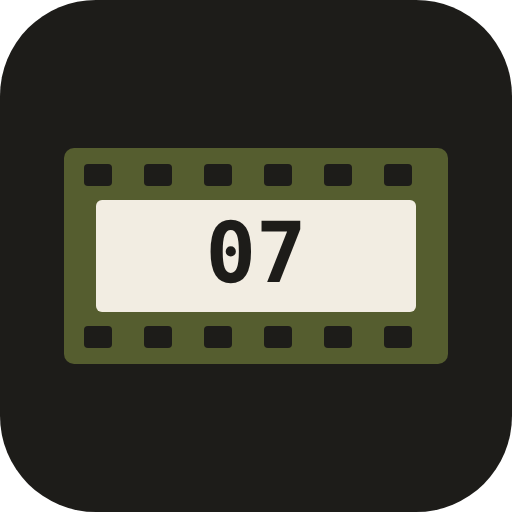
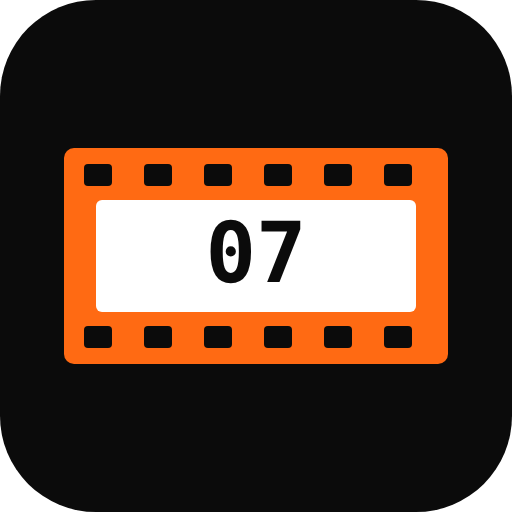
Black, orange and white colour scheme
White page with black ink and safety-orange actions; a near-black dark mode.
Double exposures move from amber to black with an orange hazard stripe so they
stay distinct from the orange primary action. App icon, theme colour and
manifest updated to match.

Claude-Session: https://claude.ai/code/session_01EzKTXiBk6ZMpbCq3yHwj5h

Changed region(s): [[0.125, 0.2812, 0.875, 0.7188]]

diff --git a/app.css b/app.css
@@ -1,38 +1,39 @@
-/* Layout: a single centred column like a pocket notebook page; logger pinned above a three-tab bar. */
+/* Layout: a single centred column like a pocket notebook page; logger pinned above a three-tab bar.
+   Palette: white page, black ink, safety orange for actions. Multiple exposures use black + hazard stripe. */
 :root {
-  --paper: #f2ede2;      /* cream page */
-  --sheet: #fbf8f1;      /* raised paper: inputs, cards */
-  --tile: #e8e1d2;       /* unselected controls */
-  --ink: #1d1c19;        /* charcoal */
-  --ink-2: #57544b;      /* secondary text */
-  --ink-3: #8a8577;      /* hints */
-  --line: #d3cab7;
-  --olive: #555d2f;      /* primary / selected */
-  --olive-ink: #fbf8f1;
-  --olive-soft: #dfe0c6;
-  --amber: #9a531a;      /* multiple exposure: deliberately not olive */
-  --amber-soft: #f1dcc3;
-  --danger: #9b2f22;
+  --paper: #ffffff;      /* page */
+  --sheet: #f6f6f5;      /* raised: inputs, cards */
+  --tile: #ececea;       /* unselected controls */
+  --ink: #0b0b0b;        /* black */
+  --ink-2: #4a4a4a;      /* secondary text */
+  --ink-3: #858585;      /* hints */
+  --line: #dadad8;
+  --accent: #ff6a13;     /* orange fill: primary / selected */
+  --accent-ink: #0b0b0b; /* text on orange */
+  --accent-text: #c2410c;/* orange used as text on the page (passes contrast on white) */
+  --accent-soft: #ffe7d6;
+  --mx-stripe: repeating-linear-gradient(-45deg, var(--accent) 0 7px, var(--ink) 7px 14px);
+  --danger: #c81e1e;
   --font-display: "Newsreader", "Iowan Old Style", "Palatino Linotype", Georgia, serif;
   --font-ui: "IBM Plex Sans", "Helvetica Neue", Arial, system-ui, sans-serif;
   --font-mono: "IBM Plex Mono", ui-monospace, "SF Mono", Menlo, Consolas, monospace;
   --nav-h: 64px;
   --radius: 10px;
   --col: 600px;
-  --grain-opacity: .07;
+  --grain-opacity: .045;
   color-scheme: light;
 }
 @media (prefers-color-scheme: dark) {
   :root:not([data-theme="light"]) {
-    --paper: #161512; --sheet: #201f1b; --tile: #2a2924; --ink: #efe9dc; --ink-2: #b1ab9c; --ink-3: #7f7a6d;
-    --line: #3b3933; --olive: #b0b97e; --olive-ink: #161512; --olive-soft: #2e3121; --amber: #e09a55;
-    --amber-soft: #3a2a1a; --danger: #e0806f; --grain-opacity: .05; color-scheme: dark;
+    --paper: #0b0b0b; --sheet: #171717; --tile: #232323; --ink: #f5f5f5; --ink-2: #b8b8b8; --ink-3: #7c7c7c;
+    --line: #2f2f2f; --accent: #ff7a1f; --accent-ink: #0b0b0b; --accent-text: #ff8c42; --accent-soft: #3b1f0c;
+    --danger: #ff6b6b; --grain-opacity: .05; color-scheme: dark;
   }
 }
 :root[data-theme="dark"] {
-  --paper: #161512; --sheet: #201f1b; --tile: #2a2924; --ink: #efe9dc; --ink-2: #b1ab9c; --ink-3: #7f7a6d;
-  --line: #3b3933; --olive: #b0b97e; --olive-ink: #161512; --olive-soft: #2e3121; --amber: #e09a55;
-  --amber-soft: #3a2a1a; --danger: #e0806f; --grain-opacity: .05; color-scheme: dark;
+  --paper: #0b0b0b; --sheet: #171717; --tile: #232323; --ink: #f5f5f5; --ink-2: #b8b8b8; --ink-3: #7c7c7c;
+  --line: #2f2f2f; --accent: #ff7a1f; --accent-ink: #0b0b0b; --accent-text: #ff8c42; --accent-soft: #3b1f0c;
+  --danger: #ff6b6b; --grain-opacity: .05; color-scheme: dark;
 }
 
 * { box-sizing: border-box; }
@@ -48,7 +49,7 @@ body::after { /* film grain */
 }
 button, input, select, textarea { font: inherit; color: inherit; }
 button { cursor: pointer; }
-:focus-visible { outline: 2px solid var(--olive); outline-offset: 2px; }
+:focus-visible { outline: 2px solid var(--accent); outline-offset: 2px; }
 @media (prefers-reduced-motion: reduce) { * { transition: none !important; animation: none !important; } }
 
 #app {
@@ -92,8 +93,8 @@ p { margin: 0; }
 }
 a.icon-btn { color: var(--ink); }
 .btn svg { width: 18px; height: 18px; }
-.btn.primary { background: var(--olive); color: var(--olive-ink); border-color: var(--olive); }
-.btn.amber { background: var(--amber); color: var(--sheet); border-color: var(--amber); }
+.btn.primary { background: var(--accent); color: var(--accent-ink); border-color: var(--accent); }
+.btn.mx { background: var(--mx-stripe) bottom / 100% 6px no-repeat, var(--ink); color: var(--paper); border-color: var(--ink); }
 .btn.ghost { background: none; }
 .btn.danger { color: var(--danger); border-color: var(--danger); background: none; }
 .btn.block { width: 100%; }
@@ -101,7 +102,7 @@ a.icon-btn { color: var(--ink); }
 .btn:disabled { opacity: .45; cursor: not-allowed; }
 .btn-row { display: flex; gap: 10px; flex-wrap: wrap; }
 .btn-row > .btn { flex: 1 1 140px; }
-.link { background: none; border: 0; padding: 8px 0; color: var(--olive); font-weight: 600; text-decoration: underline; text-underline-offset: 3px; }
+.link { background: none; border: 0; padding: 8px 0; color: var(--accent-text); font-weight: 600; text-decoration: underline; text-underline-offset: 3px; }
 
 /* ---------- bottom nav ---------- */
 .nav {
@@ -117,7 +118,7 @@ a.icon-btn { color: var(--ink); }
 }
 .nav a svg { width: 24px; height: 24px; }
 .nav a[aria-current="page"] { color: var(--ink); }
-.nav a[aria-current="page"] svg { color: var(--olive); }
+.nav a[aria-current="page"] svg { color: var(--accent-text); }
 
 /* ---------- logger header ---------- */
 .roll-head { display: flex; align-items: flex-start; gap: 12px; }
@@ -129,8 +130,8 @@ a.icon-btn { color: var(--ink); }
   display: inline-flex; align-items: center; gap: 4px; padding: 2px 8px; border-radius: 4px;
   font: 600 .72rem/1.5 var(--font-mono); letter-spacing: .04em; border: 1px solid var(--line); color: var(--ink-2);
 }
-.chip.olive { border-color: var(--olive); color: var(--olive); }
-.chip.amber { border-color: var(--amber); color: var(--amber); }
+.chip.accent { border-color: var(--accent-text); color: var(--accent-text); }
+.chip.mx { border-color: var(--ink); background: var(--ink); color: var(--paper); }
 
 .counter { display: flex; align-items: center; justify-content: space-between; gap: 8px; margin: 18px 0 10px; }
 .counter-num { font-family: var(--font-mono); font-variant-numeric: tabular-nums; line-height: 1; display: flex; align-items: baseline; gap: 6px; }
@@ -143,28 +144,28 @@ a.icon-btn { color: var(--ink); }
 .strip-wrap { position: relative; margin: 0 -16px 18px; }
 .strip {
   display: flex; gap: 3px; overflow-x: auto; padding: 10px 16px; scroll-snap-type: x proximity; scrollbar-width: none;
-  background: #1d1c19;
+  background: #000;
 }
 .strip::-webkit-scrollbar { display: none; }
 .strip button {
   flex: none; width: 34px; height: 44px; border-radius: 3px; border: 0; padding: 0; position: relative; scroll-snap-align: center;
-  background: #3a3832; color: #a39e90; font: 500 .7rem/1 var(--font-mono);
+  background: #262626; color: #9a9a9a; font: 500 .7rem/1 var(--font-mono);
 }
-.strip button.done { background: #8d8a6a; color: #1d1c19; }
-.strip button.multi { background: #c9884b; color: #1d1c19; }
+.strip button.done { background: #ff6a13; color: #0b0b0b; font-weight: 600; }
+.strip button.multi { background: repeating-linear-gradient(-45deg, #ff6a13 0 5px, #0b0b0b 5px 10px); color: #fff; font-weight: 600; text-shadow: 0 0 3px #000, 0 0 3px #000; }
 .strip button.multi::after { content: "×" attr(data-n); position: absolute; top: 2px; right: 3px; font-size: .55rem; }
-.strip button.cur { outline: 2px solid #f2ede2; outline-offset: 1px; }
+.strip button.cur { outline: 2px solid #ffffff; outline-offset: 1px; }
 .strip button.extra { opacity: .7; }
-.strip-holes { height: 6px; background-color: #1d1c19; background-image: radial-gradient(circle at 6px 3px, var(--paper) 1.6px, transparent 1.9px); background-size: 12px 6px; }
+.strip-holes { height: 6px; background-color: #000; background-image: radial-gradient(circle at 6px 3px, #f5f5f5 1.6px, transparent 1.9px); background-size: 12px 6px; }
 .progress-text { display: flex; justify-content: space-between; font-size: .8rem; color: var(--ink-2); margin: -10px 0 18px; }
 
 /* status panels */
 .panel { border: 1px solid var(--line); background: var(--sheet); border-radius: var(--radius); padding: 16px; display: grid; gap: 12px; }
-.panel.amber { border-color: var(--amber); background: var(--amber-soft); }
-.panel.olive { border-color: var(--olive); }
+.panel.mx { border-color: var(--ink); }
+.panel.accent { border-color: var(--accent); border-width: 1.5px; }
 .multi-banner {
   display: flex; align-items: center; gap: 12px; padding: 12px 14px; border-radius: var(--radius);
-  background: var(--amber); color: var(--sheet); margin-bottom: 16px;
+  background: var(--mx-stripe) left / 10px 100% no-repeat, var(--ink); color: var(--paper); margin-bottom: 16px; padding-left: 24px;
 }
 .multi-banner svg { width: 34px; height: 34px; flex: none; }
 .multi-banner b { display: block; font-size: 1rem; letter-spacing: .02em; }
@@ -179,10 +180,10 @@ a.icon-btn { color: var(--ink); }
 .choice button svg { width: 28px; height: 28px; }
 .choice button b { font-size: 1.05rem; }
 .choice button small { color: var(--ink-2); font-size: .85rem; }
-.choice .wind { background: var(--olive); color: var(--olive-ink); border-color: var(--olive); }
+.choice .wind { background: var(--accent); color: var(--accent-ink); border-color: var(--accent); }
 .choice .wind small { color: inherit; opacity: .85; }
-.choice .dbl { border-color: var(--amber); color: var(--amber); background: var(--amber-soft); }
-.choice .dbl small { color: var(--amber); }
+.choice .dbl { border-color: var(--ink); color: var(--paper); background: var(--mx-stripe) top / 100% 7px no-repeat, var(--ink); }
+.choice .dbl small { color: inherit; opacity: .8; }
 
 .exp-mini { display: grid; gap: 2px; padding: 10px 12px; border-left: 3px solid var(--line); }
 .exp-mini .row1 { display: flex; gap: 8px; align-items: baseline; flex-wrap: wrap; }
@@ -200,8 +201,8 @@ a.icon-btn { color: var(--ink); }
 }
 .wx svg { width: 34px; height: 34px; }
 .wx span { font-size: .68rem; line-height: 1.15; text-align: center; color: var(--ink-2); }
-.wx[aria-pressed="true"] { --wx-bg: var(--olive); color: var(--olive-ink); border-color: var(--olive); }
-.wx[aria-pressed="true"] span { color: var(--olive-ink); }
+.wx[aria-pressed="true"] { --wx-bg: var(--accent); color: var(--accent-ink); border-color: var(--accent); }
+.wx[aria-pressed="true"] span { color: var(--accent-ink); font-weight: 600; }
 svg .cl { fill: var(--wx-bg, var(--sheet)); }
 
 .dials { display: grid; grid-template-columns: 1fr 1fr; gap: 10px; }
@@ -223,7 +224,7 @@ svg .cl { fill: var(--wx-bg, var(--sheet)); }
   border: 1.5px solid var(--line); background: var(--sheet); font-size: 1.05rem;
 }
 .textarea { min-height: 96px; resize: vertical; line-height: 1.45; }
-.input:focus, .textarea:focus, .select:focus { border-color: var(--olive); outline: none; }
+.input:focus, .textarea:focus, .select:focus { border-color: var(--accent); outline: none; }
 .select { appearance: none; background-image: linear-gradient(45deg, transparent 50%, var(--ink-2) 50%), linear-gradient(135deg, var(--ink-2) 50%, transparent 50%); background-position: calc(100% - 20px) 50%, calc(100% - 14px) 50%; background-size: 6px 6px; background-repeat: no-repeat; padding-right: 36px; }
 .subject { font-family: var(--font-display); font-size: 1.25rem; }
 .subject::placeholder, .input::placeholder, .textarea::placeholder { color: var(--ink-3); }
@@ -258,7 +259,7 @@ svg .cl { fill: var(--wx-bg, var(--sheet)); }
 .format-card {
   display: grid; gap: 8px; padding: 18px 16px; text-align: left; border-radius: 14px; border: 1.5px solid var(--line); background: var(--sheet);
 }
-.format-card[aria-pressed="true"] { border-color: var(--olive); box-shadow: inset 0 0 0 1.5px var(--olive); }
+.format-card[aria-pressed="true"] { border-color: var(--accent); box-shadow: inset 0 0 0 1.5px var(--accent); }
 .format-card b { font: 500 2.6rem/1 var(--font-mono); letter-spacing: -.03em; }
 .format-card svg { width: 100%; height: 56px; color: var(--ink-2); }
 .option-list { display: grid; gap: 8px; }
@@ -266,13 +267,13 @@ svg .cl { fill: var(--wx-bg, var(--sheet)); }
   display: grid; grid-template-columns: 1fr auto; align-items: center; gap: 4px 12px; text-align: left;
   padding: 14px 16px; border-radius: var(--radius); border: 1.5px solid var(--line); background: var(--sheet); min-height: 64px;
 }
-.option[aria-pressed="true"] { border-color: var(--olive); box-shadow: inset 0 0 0 1.5px var(--olive); }
+.option[aria-pressed="true"] { border-color: var(--accent); box-shadow: inset 0 0 0 1.5px var(--accent); }
 .option small { grid-column: 1 / -1; color: var(--ink-2); font-size: .88rem; }
 .option b { font-weight: 600; font-size: 1.05rem; }
 .stock-list { display: grid; gap: 0; max-height: 300px; overflow-y: auto; border: 1px solid var(--line); border-radius: var(--radius); background: var(--sheet); }
 .stock-list button { display: flex; justify-content: space-between; align-items: center; gap: 8px; padding: 13px 14px; border: 0; border-bottom: 1px solid var(--line); background: none; text-align: left; min-height: 50px; }
 .stock-list button:last-child { border-bottom: 0; }
-.stock-list button[aria-pressed="true"] { background: var(--olive-soft); }
+.stock-list button[aria-pressed="true"] { background: var(--accent-soft); }
 .stock-list .brand { color: var(--ink-2); }
 .two { display: grid; grid-template-columns: 1fr 1fr; gap: 10px; }
 .stepper { display: grid; grid-template-columns: 52px 1fr 52px; align-items: center; gap: 8px; }
@@ -300,10 +301,10 @@ svg .cl { fill: var(--wx-bg, var(--sheet)); }
 .roll-card .top { display: flex; justify-content: space-between; gap: 8px; align-items: flex-start; }
 .roll-card h3 { font-size: 1.3rem; }
 .roll-card .bar { height: 4px; background: var(--tile); border-radius: 2px; overflow: hidden; }
-.roll-card .bar i { display: block; height: 100%; background: var(--olive); }
+.roll-card .bar i { display: block; height: 100%; background: var(--accent); }
 .roll-card .foot { display: flex; justify-content: space-between; gap: 8px; color: var(--ink-2); font-size: .88rem; flex-wrap: wrap; }
 .status { font: 600 .68rem/1 var(--font-ui); letter-spacing: .1em; text-transform: uppercase; padding: 5px 8px; border-radius: 4px; flex: none; }
-.status.active { background: var(--olive); color: var(--olive-ink); }
+.status.active { background: var(--accent); color: var(--accent-ink); }
 .status.completed { background: var(--tile); color: var(--ink); }
 .status.archived { border: 1px solid var(--line); color: var(--ink-3); }
 .empty { text-align: center; padding: 40px 16px; display: grid; gap: 14px; justify-items: center; }
@@ -325,7 +326,7 @@ svg .cl { fill: var(--wx-bg, var(--sheet)); }
 .frame-row .icons { display: flex; gap: 2px; }
 .frame-row .icons svg { width: 22px; height: 22px; }
 .frame-row.missing .no { color: var(--ink-3); }
-.frame-row .sub-exp { display: grid; gap: 2px; padding-left: 10px; border-left: 2px solid var(--amber); margin-top: 4px; }
+.frame-row .sub-exp { display: grid; gap: 2px; padding-left: 10px; border-left: 3px solid var(--ink); margin-top: 4px; }
 
 /* detail */
 .kv { display: grid; grid-template-columns: repeat(2, 1fr); gap: 1px; background: var(--line); border: 1px solid var(--line); border-radius: var(--radius); overflow: hidden; }
@@ -344,7 +345,7 @@ svg .cl { fill: var(--wx-bg, var(--sheet)); }
 /* search */
 .result { display: grid; gap: 6px; padding: 14px 0; border-bottom: 1px solid var(--line); text-decoration: none; color: inherit; }
 .result .subj { font-family: var(--font-display); font-size: 1.2rem; }
-.result mark { background: var(--olive-soft); color: inherit; padding: 0 2px; border-radius: 2px; }
+.result mark { background: var(--accent-soft); color: inherit; padding: 0 2px; border-radius: 2px; }
 .result .where { display: flex; gap: 8px; flex-wrap: wrap; align-items: center; font-size: .88rem; color: var(--ink-2); }
 .result .icons svg { width: 20px; height: 20px; }
 

diff --git a/app.js b/app.js
@@ -2,7 +2,7 @@
  * Data lives in localStorage as one versioned JSON document (see Store). */
 'use strict';
 
-const APP_VERSION = '1.1.0';
+const APP_VERSION = '1.2.0';
 const SCHEMA_VERSION = 2;
 const STORAGE_KEY = 'filmlog:db';
 const PREV_KEY = 'filmlog:db:prev';
@@ -579,7 +579,7 @@ function viewLog() {
   <div class="progress-text"><span>${logged} of ${total} frames logged</span><span>${logged === 0 ? '' : Math.round((logged / total) * 100) + '%'}</span></div>`;
 
   if (state === 'end') {
-    return head + `<div class="panel olive">
+    return head + `<div class="panel accent">
       <h2>All ${total} frames logged</h2>
       <p class="muted">Rewind, then mark the roll complete. If your camera gave you an extra frame, add it.</p>
       <button class="btn primary big block" data-act="complete-roll">${icon('check')} Mark roll complete</button>
@@ -590,8 +590,8 @@ function viewLog() {
   if (state === 'filled') {
     const next = firstEmptyFrom(roll, n + 1);
     const nextLabel = next ? `Frame ${pad2(next)}` : 'End of roll';
-    return head + `<div class="panel ${roll.format === '120' ? 'olive' : ''}">
-      <div class="section-head"><h2>Frame ${pad2(n)} ${exps.length > 1 ? `<span class="chip amber">×${exps.length}</span>` : ''}</h2><a class="link" href="#frame-${roll.id}-${n}">Open</a></div>
+    return head + `<div class="panel ${roll.format === '120' ? 'accent' : ''}">
+      <div class="section-head"><h2>Frame ${pad2(n)} ${exps.length > 1 ? `<span class="chip mx">×${exps.length}</span>` : ''}</h2><a class="link" href="#frame-${roll.id}-${n}">Open</a></div>
       ${exps.map((e) => expMiniHtml(e, exps.length)).join('')}
       <p class="label" style="margin-top:4px">${roll.format === '120' ? 'How is the next photograph recorded?' : 'This frame is already logged'}</p>
       <div class="choice">
@@ -608,7 +608,7 @@ function viewLog() {
     ? `<div class="multi-banner" role="status">${icon('multi')}<div><b>DOUBLE EXPOSURE</b><small>Adding exposure ${exps.length + 1} to Frame ${pad2(n)}. The counter will not advance.</small></div><button data-act="cancel-multi">Cancel</button></div>` : '';
   return head + multiBanner + exposureFormHtml(draft, cam, { repeatFrom: last }) + `
   <div class="savebar"><div class="savebar-inner">
-    <button class="btn ${state === 'multi' ? 'amber' : 'primary'} big block" data-act="save-frame">${icon(state === 'multi' ? 'multi' : 'check')} ${state === 'multi' ? `Save Double Exposure · ${pad2(n)}` : `Save Frame ${pad2(n)}`}</button>
+    <button class="btn ${state === 'multi' ? 'mx' : 'primary'} big block" data-act="save-frame">${icon(state === 'multi' ? 'multi' : 'check')} ${state === 'multi' ? `Save Double Exposure · ${pad2(n)}` : `Save Frame ${pad2(n)}`}</button>
     <div class="draft-status" id="draft-status">${draftHasContent(draft) ? 'Draft saved' : ''}</div>
   </div></div>`;
 }
@@ -627,8 +627,8 @@ function stripHtml(roll, n) {
 }
 
 function expMiniHtml(e, count) {
-  return `<div class="exp-mini" style="${count > 1 ? 'border-left-color:var(--amber)' : ''}">
-    <div class="row1">${count > 1 ? `<span class="chip amber">Exp ${e.sequence}</span>` : ''}<span class="${e.subject ? '' : 'muted'}" style="font-family:var(--font-display);font-size:1.1rem">${esc(e.subject || 'No description')}</span></div>
+  return `<div class="exp-mini" style="${count > 1 ? 'border-left-color:var(--ink)' : ''}">
+    <div class="row1">${count > 1 ? `<span class="chip mx">Exp ${e.sequence}</span>` : ''}<span class="${e.subject ? '' : 'muted'}" style="font-family:var(--font-display);font-size:1.1rem">${esc(e.subject || 'No description')}</span></div>
     <div class="mono muted" style="font-size:.85rem">${settingsText(e)} ${e.weather.length ? '· ' + e.weather.map((w) => WX[w]?.label).join(', ') : ''}</div>
   </div>`;
 }
@@ -898,7 +898,7 @@ function frameRowHtml(roll, f) {
   const first = exps[0];
   const wx = [...new Set(exps.flatMap((e) => e.weather))];
   return `<a class="frame-row" href="#frame-${roll.id}-${f.number}">
-    <div class="no">${pad2(f.number)}${exps.length > 1 ? `<small style="color:var(--amber)">×${exps.length} EXP</small>` : ''}</div>
+    <div class="no">${pad2(f.number)}${exps.length > 1 ? `<small style="color:var(--ink)">×${exps.length} EXP</small>` : ''}</div>
     <div class="body">
       <span class="subj ${first.subject ? '' : 'none'}">${esc(first.subject || 'No description')}</span>
       <span class="set">${settingsText(first)}</span>
@@ -926,7 +926,7 @@ function viewFrame(rollId, n) {
     <div style="display:flex;align-items:flex-end;gap:14px;flex-wrap:wrap">
       <div class="big-frame">${pad2(n)}</div>
       <div style="padding-bottom:8px"><p class="eyebrow">Frame ${n} of ${roll.frameCapacity} · ${esc(roll.format)}</p>
-        ${exps.length > 1 ? `<span class="chip amber" style="margin-top:6px">${icon('multi')} ${exps.length} exposures on this frame</span>` : ''}</div>
+        ${exps.length > 1 ? `<span class="chip mx" style="margin-top:6px">${icon('multi')} ${exps.length} exposures on this frame</span>` : ''}</div>
     </div>
     <div class="kv">
       <div><span class="label">Film</span><span class="v">${esc(rollTitle(roll))}</span></div>
@@ -1058,7 +1058,7 @@ function searchResultsHtml() {
     return `<a class="result" href="#frame-${roll.id}-${frame.number}">
       <span class="subj">${highlight(e.subject || 'No description', terms)}</span>
       ${e.notes ? `<span class="muted" style="font-size:.9rem">${highlight(e.notes.length > 120 ? e.notes.slice(0, 120) + '…' : e.notes, terms)}</span>` : ''}
-      <span class="where"><b class="mono" style="color:var(--ink)">Frame ${pad2(frame.number)}</b>${count > 1 ? `<span class="chip amber">Exp ${e.sequence}/${count}</span>` : ''}<span>${esc(rollTitle(roll))}</span><span>·</span><span>${esc(rollCamera(roll).name)}</span></span>
+      <span class="where"><b class="mono" style="color:var(--ink)">Frame ${pad2(frame.number)}</b>${count > 1 ? `<span class="chip mx">Exp ${e.sequence}/${count}</span>` : ''}<span>${esc(rollTitle(roll))}</span><span>·</span><span>${esc(rollCamera(roll).name)}</span></span>
       <span class="where mono"><span>${settingsText(e)}</span><span>· EI ${roll.shootingIso}</span><span class="icons">${e.weather.map((w) => wxSvg(w, WX[w]?.label)).join('')}</span><span>· ${fmtDate(e.createdAt)}</span></span>
     </a>`;
   }).join('');

diff --git a/index.html b/index.html
@@ -5,8 +5,8 @@
 <meta name="viewport" content="width=device-width, initial-scale=1, viewport-fit=cover">
 <title>Film Logbook</title>
 <meta name="description" content="Log every frame of analog film as you shoot it.">
-<meta name="theme-color" content="#f2ede2" media="(prefers-color-scheme: light)">
-<meta name="theme-color" content="#161512" media="(prefers-color-scheme: dark)">
+<meta name="theme-color" content="#ffffff" media="(prefers-color-scheme: light)">
+<meta name="theme-color" content="#0b0b0b" media="(prefers-color-scheme: dark)">
 <meta name="apple-mobile-web-app-capable" content="yes">
 <meta name="mobile-web-app-capable" content="yes">
 <meta name="apple-mobile-web-app-status-bar-style" content="default">

diff --git a/sw.js b/sw.js
@@ -1,5 +1,5 @@
 // Offline shell: the app works with no connection once it has loaded once.
-const VERSION = 'filmlog-v1.1.0';
+const VERSION = 'filmlog-v1.2.0';
 const SHELL = ['./', 'index.html', 'app.css', 'app.js', 'manifest.webmanifest', 'icons/icon.svg', 'icons/icon-192.png', 'icons/icon-512.png'];
 
 self.addEventListener('install', (e) => {
